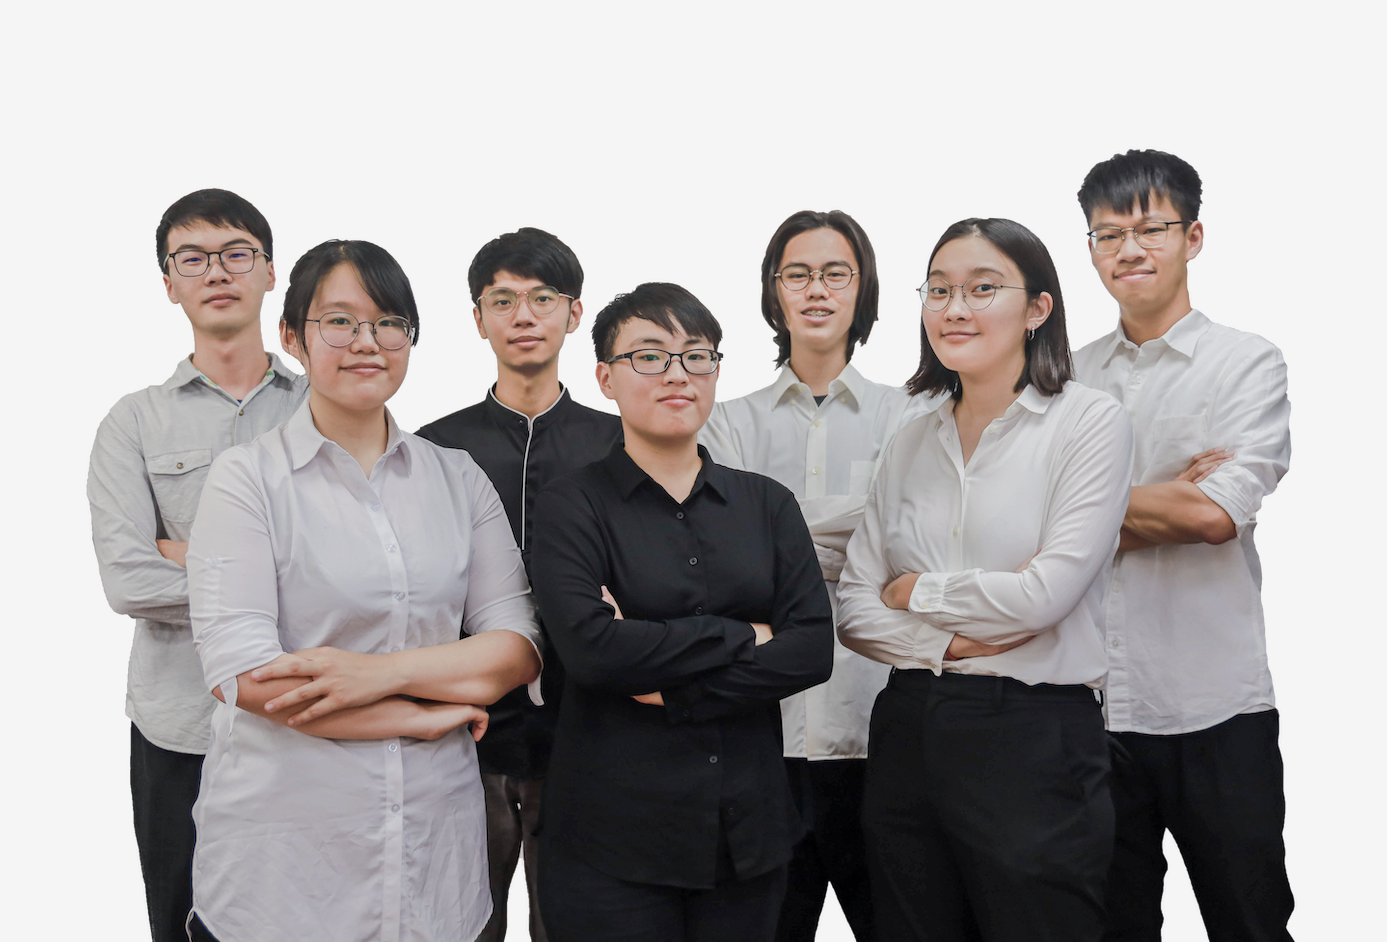
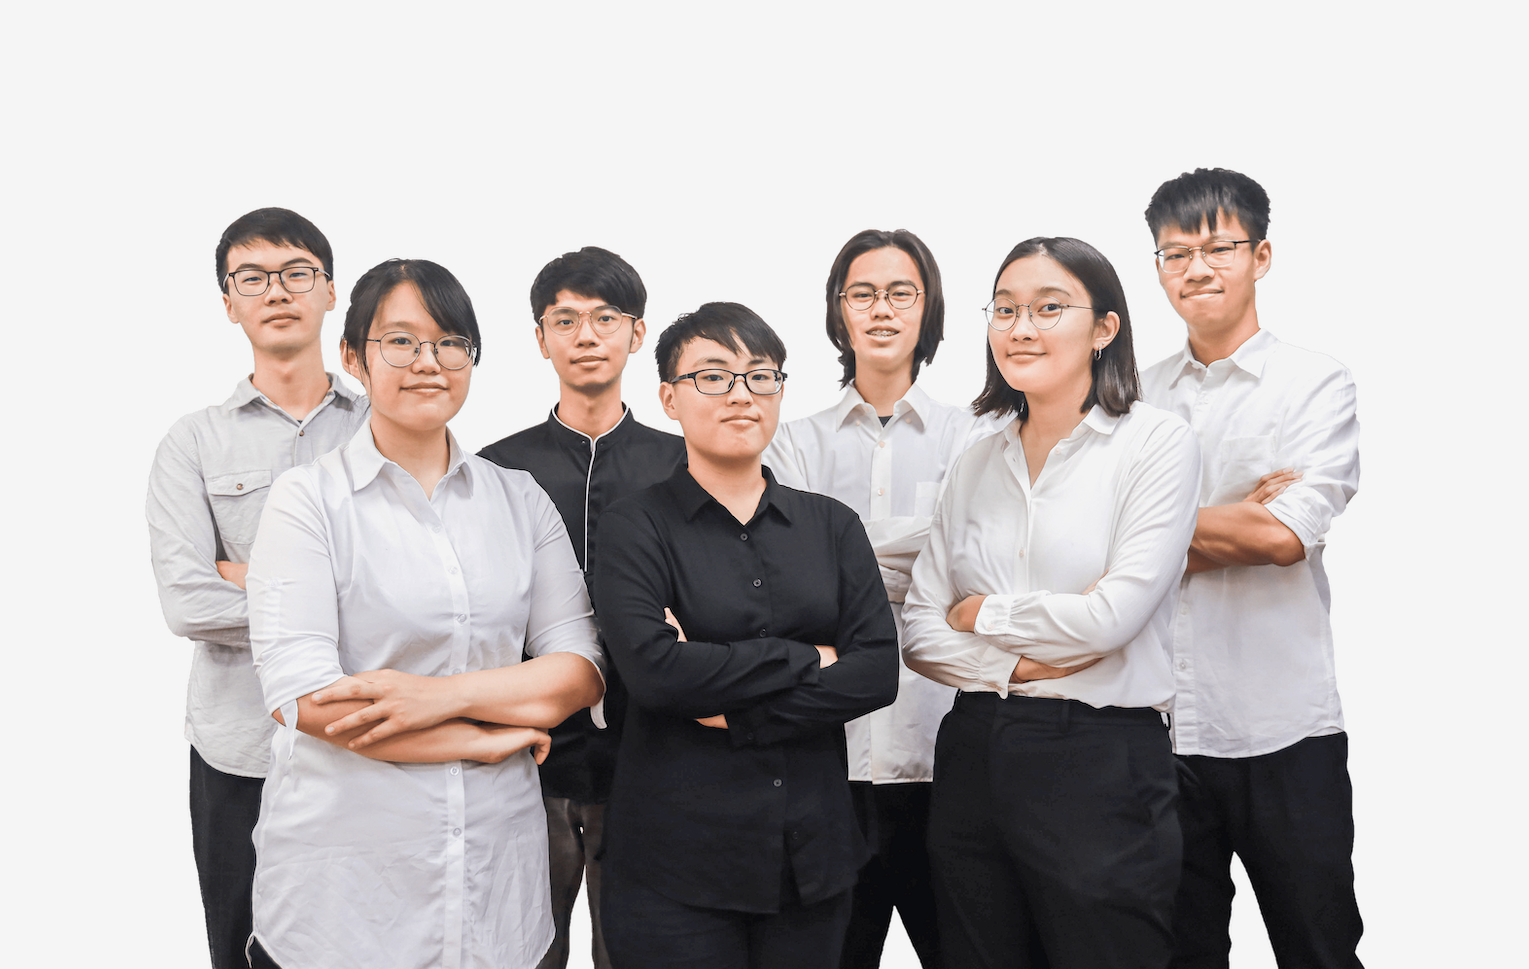
compress groupphoto

diff --git a/about_us/about_us.html b/about_us/about_us.html
@@ -37,7 +37,7 @@
         <div id = "background"></div>
 
         <div> <!-- backrground group image-->
-            <img id = "group-img" src = "./file/groupphoto_3.png">
+            <img id = "group-img" src = "./file/groupphoto_2.png">
         </div>
 
         <div id = "about-details"> <!-- details each person-->
